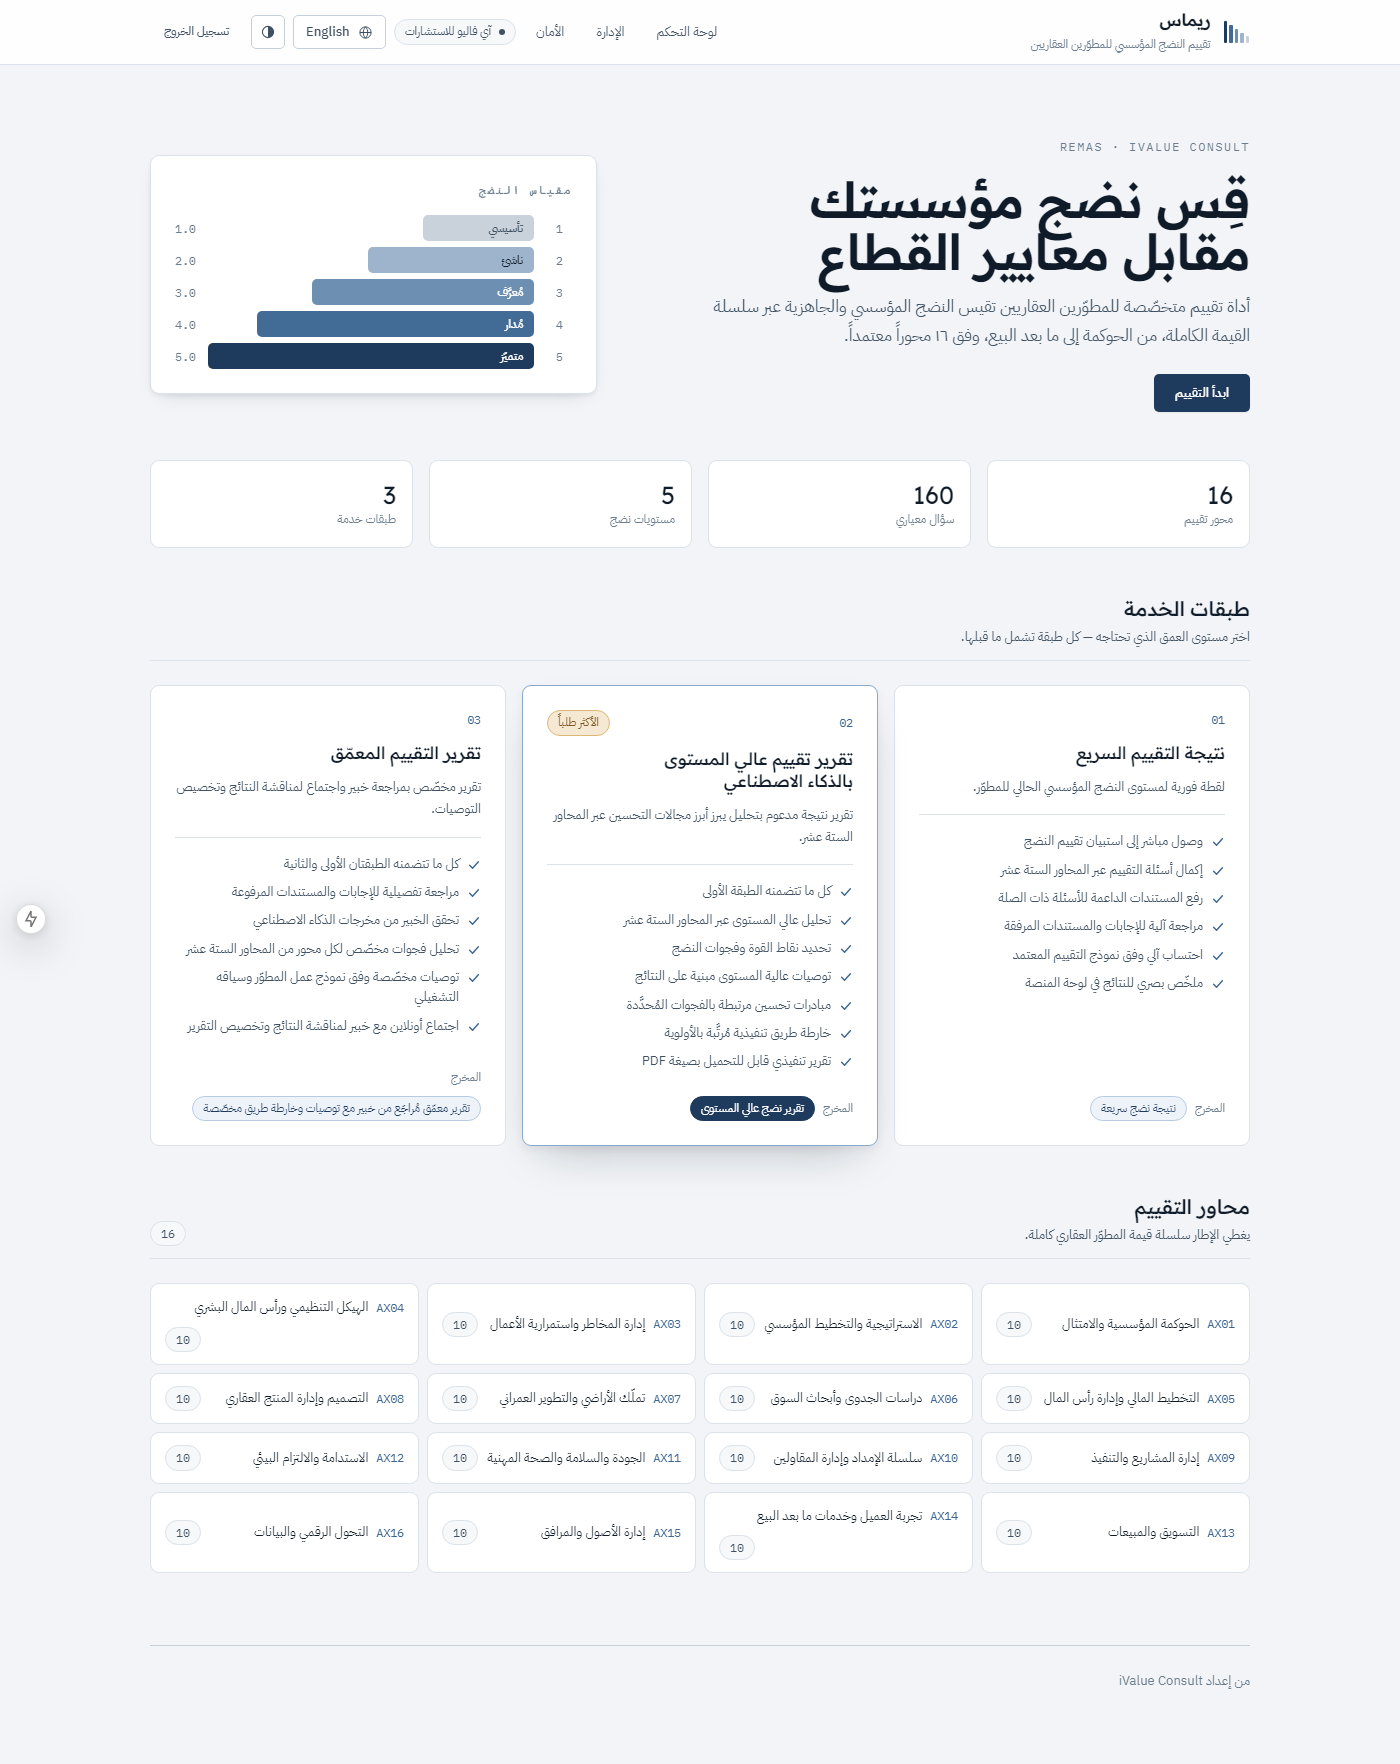
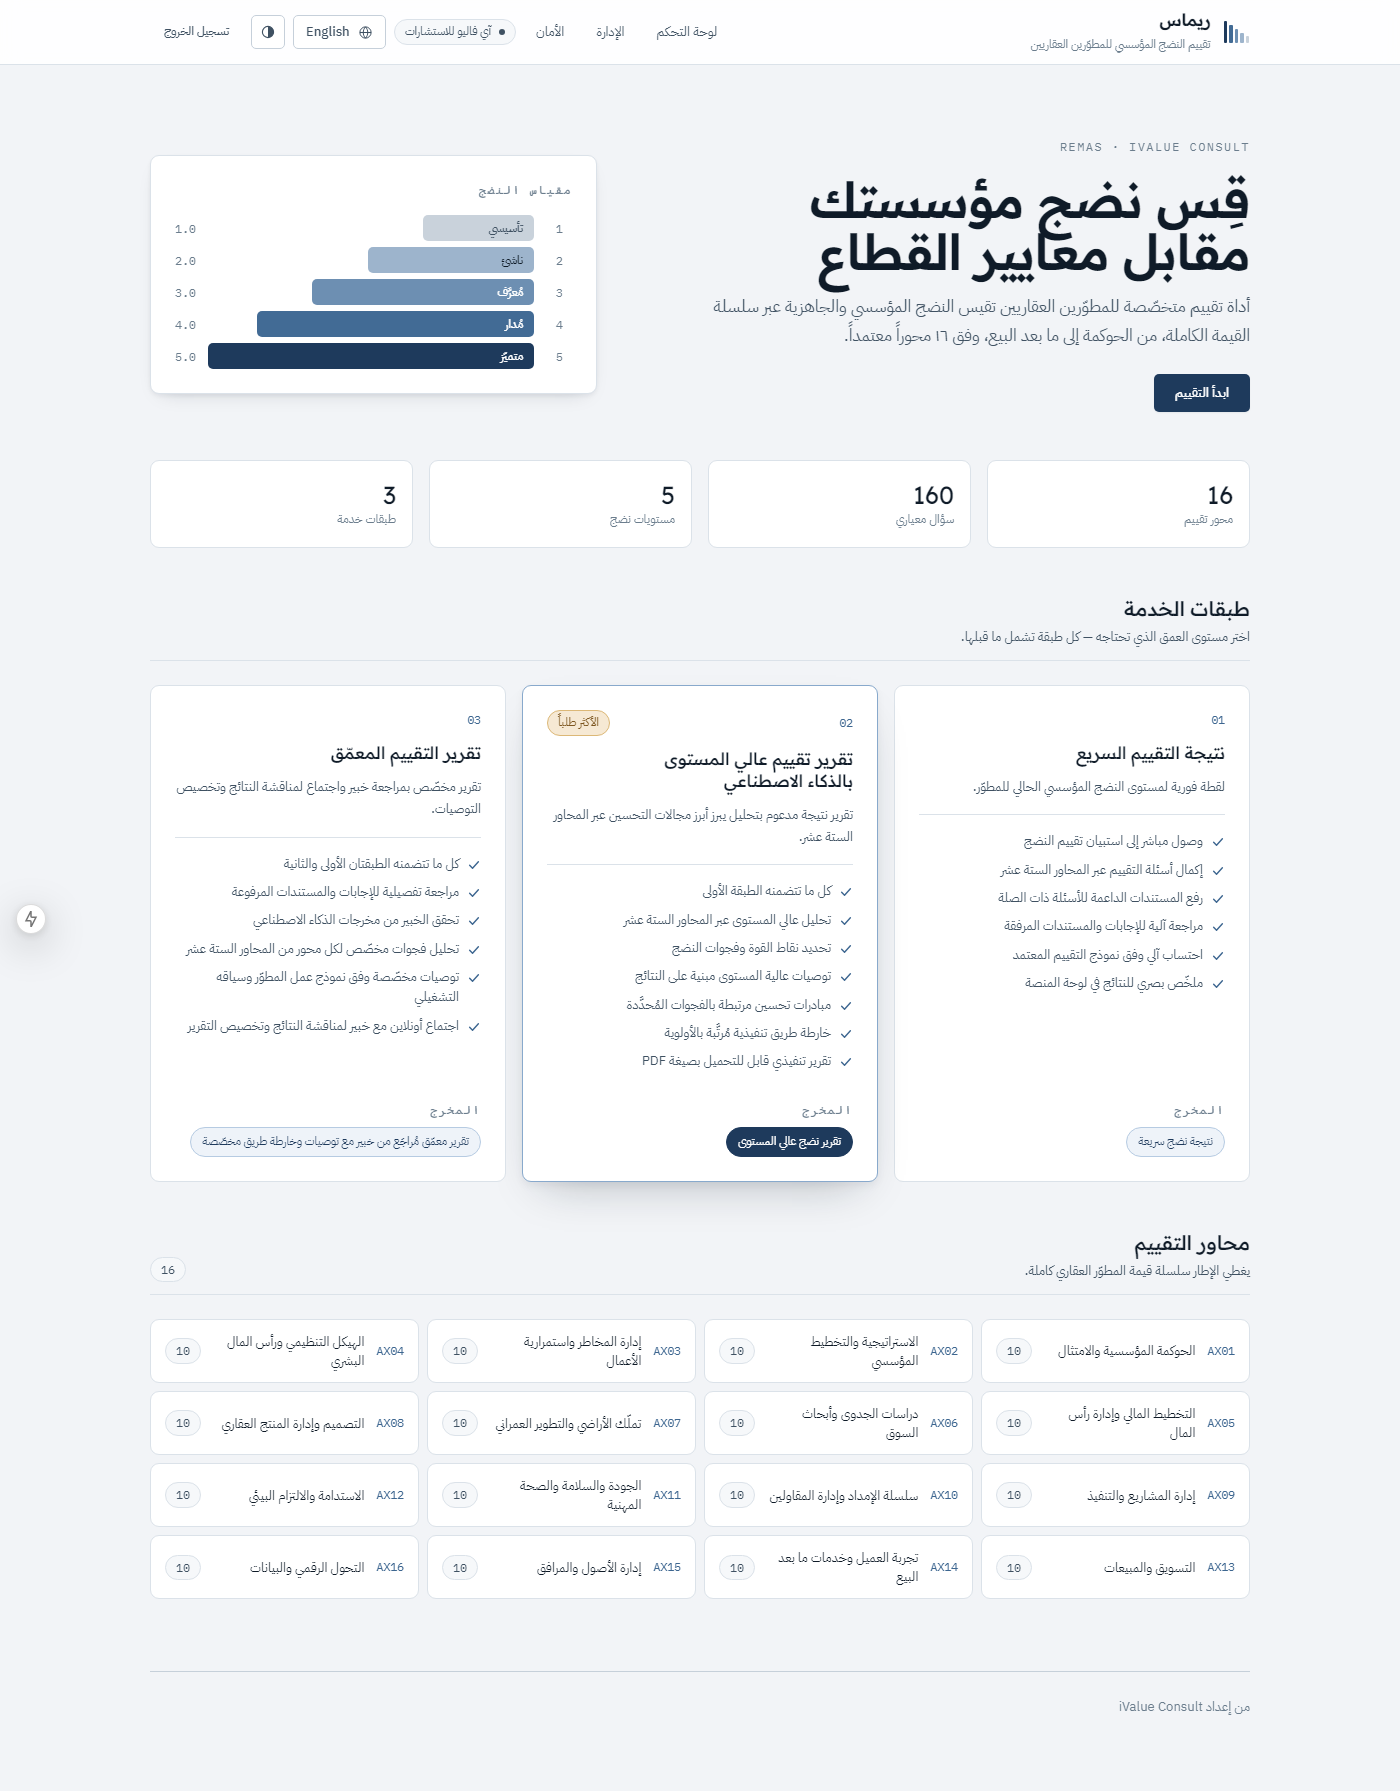
REMAS V3

diff --git a/frontend/src/app/page.tsx b/frontend/src/app/page.tsx
@@ -119,11 +119,11 @@ export default function LandingPage() {
                     </li>
                   ))}
                 </ul>
-                <div className="row row-tight" style={{ marginBlockStart: "auto", paddingBlockStart: "var(--space-3)" }}>
-                  <span className="dim" style={{ fontSize: "var(--text-xs)" }}>
-                    {t("landing.output")}
-                  </span>
-                  <span className={`chip ${featured ? "chip-solid" : "chip-brand"}`}>
+                {/* The output is a sentence, not a tag, so it gets its own row
+                    and is free to wrap instead of overflowing the card. */}
+                <div className="layer-output">
+                  <span className="eyebrow">{t("landing.output")}</span>
+                  <span className={`chip chip-wrap ${featured ? "chip-solid" : "chip-brand"}`}>
                     {pick(layer, "output")}
                   </span>
                 </div>
@@ -145,12 +145,12 @@ export default function LandingPage() {
           </div>
           <div className="grid grid-auto-md" style={{ gap: "var(--space-2)" }}>
             {pillars.map((pillar) => (
-              <div key={pillar.code} className="card card-interactive row row-tight" style={{ padding: "12px 14px" }}>
+              <div key={pillar.code} className="card card-interactive pillar-row">
                 <span className="mono" style={{ fontSize: "var(--text-xs)", color: "var(--brand-500)" }}>
                   {pillar.code}
                 </span>
-                <span style={{ fontSize: "var(--text-sm)" }}>{pick(pillar, "name")}</span>
-                <span className="chip mono push">{pillar.question_count}</span>
+                <span className="pillar-name">{pick(pillar, "name")}</span>
+                <span className="chip mono">{pillar.question_count}</span>
               </div>
             ))}
           </div>
@@ -171,6 +171,19 @@ export default function LandingPage() {
 
       <style>{`
         .list-clean { margin:0; padding:0; list-style:none; }
+        .layer-output {
+          margin-block-start:auto; padding-block-start:var(--space-4);
+          display:flex; flex-direction:column; gap:var(--space-2);
+          align-items:flex-start; min-width:0;
+        }
+        /* Three fixed columns rather than a flex row: a long pillar name wraps
+           inside its own column instead of shoving the count onto a second
+           line, so every card keeps the same shape. */
+        .pillar-row {
+          display:grid; grid-template-columns:auto minmax(0,1fr) auto;
+          align-items:center; gap:var(--space-3); padding:12px 14px;
+        }
+        .pillar-name { font-size:var(--text-sm); line-height:1.45; min-width:0; }
         .list-clean li {
           display:flex; align-items:flex-start; gap:var(--space-2);
           font-size:var(--text-sm); color:var(--ink-2); line-height:1.55;

diff --git a/frontend/src/app/globals.css b/frontend/src/app/globals.css
@@ -468,6 +468,16 @@ textarea {
   border-color: var(--brand-700);
   color: var(--on-brand);
 }
+/* A chip holding a sentence rather than a label. `.chip` pins white-space to
+   nowrap so short tags never break mid-word; that same rule pushes a long
+   value straight out of its card, so length-bearing chips opt out of it. */
+.chip-wrap {
+  white-space: normal;
+  text-align: start;
+  line-height: 1.5;
+  padding: 5px 11px;
+  max-width: 100%;
+}
 
 .dot {
   width: 6px;

diff --git a/backend/scripts/browsertest.py b/backend/scripts/browsertest.py
@@ -169,6 +169,33 @@ def run_engine(playwright, engine: str, shots: Path | None) -> dict:
         note(mobile_overflow <= 1, "no horizontal overflow at 390px", f"{mobile_overflow}px")
         page.set_viewport_size({"width": 1400, "height": 950})
 
+        # ── nothing may paint outside the card that owns it ────────────────
+        # Document-level overflow misses a child bursting out of a bordered
+        # container, which is exactly how a long value in a nowrap chip fails.
+        for page_path, width in (("/", 1400), ("/", 1100), ("/dashboard", 1400)):
+            page.set_viewport_size({"width": width, "height": 950})
+            page.goto(f"{FRONTEND}{page_path}", wait_until="networkidle")
+            page.wait_for_timeout(300)
+            escaping = page.evaluate(
+                """() => {
+                    const bad = [];
+                    for (const card of document.querySelectorAll('.card, .stat, .lane')) {
+                        const box = card.getBoundingClientRect();
+                        for (const child of card.querySelectorAll('*')) {
+                            const c = child.getBoundingClientRect();
+                            if (c.width === 0 || c.height === 0) continue;
+                            if (c.right > box.right + 1 || c.left < box.left - 1) {
+                                bad.push((child.className || child.tagName) + ' in ' + card.className);
+                            }
+                        }
+                    }
+                    return bad.slice(0, 5);
+                }"""
+            )
+            note(not escaping, f"no element escapes its card ({page_path} @ {width}px)",
+                 "; ".join(escaping)[:120])
+        page.set_viewport_size({"width": 1400, "height": 950})
+
         # ── the palette tokens actually resolved in this engine ───────────
         primary = page.evaluate(
             "() => getComputedStyle(document.documentElement).getPropertyValue('--brand-700').trim()"
